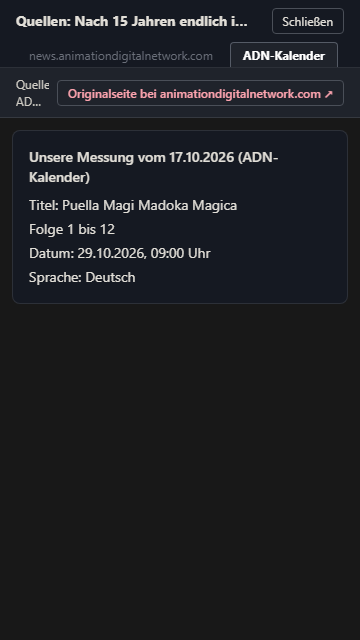
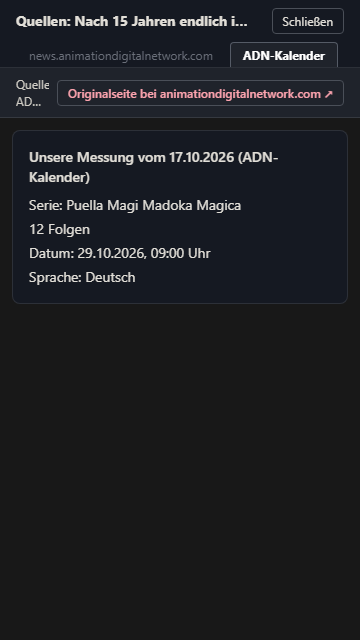
fix(belege): ADN-Messung nennt keine erfundene Startnummer (R4)
Der Termin trägt die Startnummer nur selten (1 von 116); „Folge 1 bis N“ war
eine Annahme. Jetzt „N Folgen“ (gezählt, nicht angenommen), Nummern nur mit
firstEpisodeNumber; „Titel:“ heißt „Serie:“, weil es unser Name der Serie ist,
nicht der des Kalenders. PR-Bilder neu aufgenommen.

Changed region(s): [[0.0611, 0.3125, 0.6722, 0.375]]

diff --git a/pipeline/check-beleg-api.ts b/pipeline/check-beleg-api.ts
@@ -56,7 +56,7 @@ const belegeVon = (r: Release) => baueNews([titel], [r], [], [], { zuerst: {} })
   const belege = belegeVon(release())
   const api = belege.find((b) => b.url === API)
   pruefe('der API-Beleg bleibt, mit Messung', Boolean(api?.messung?.zeilen.length), belege)
-  pruefe('Titel, Folge, Datum und Sprache stehen drin', JSON.stringify(api?.messung?.zeilen) === JSON.stringify(['Titel: Puella Magi Madoka Magica', 'Folge 1 bis 12', 'Datum: 29.10.2026, 09:00 Uhr', 'Sprache: Deutsch']), api?.messung)
+  pruefe('Serie, gezählte Folgen, Datum und Sprache stehen drin, keine erfundene Startnummer', JSON.stringify(api?.messung?.zeilen) === JSON.stringify(['Serie: Puella Magi Madoka Magica', '12 Folgen', 'Datum: 29.10.2026, 09:00 Uhr', 'Sprache: Deutsch']), api?.messung)
   pruefe('Abrufzeit: der Tag, an dem wir den Kalender sahen', api?.messung?.am === '2026-10-17', api)
   pruefe('Originalseite ist die Serienseite des Titels', api?.seite === SERIE && belegLink(api!) === SERIE, api)
   pruefe('kein Beleg des Termins hat eine API-Adresse als Link', belege.every((b) => !istApiAdresse(belegLink(b) ?? '')), belege)
@@ -73,9 +73,15 @@ const belegeVon = (r: Release) => baueNews([titel], [r], [], [], { zuerst: {} })
   const nurQuelle = belegeVon(release({ quellen: [] }))
   pruefe('eine API-Adresse nur in `sources` wird kein Beleg', !nurQuelle.some((b) => istApiAdresse(b.url)), nurQuelle)
   const einzel = belegeVon(release({ schedule: { firstEpisodeDate: '2026-10-29', time: '09:00', episodeCount: 1 } })).find((b) => b.url === API)
-  pruefe('eine Folge: „Folge 1“ ohne „bis“', einzel?.messung?.zeilen[1] === 'Folge 1', einzel?.messung)
+  pruefe('eine gezählte Folge: „1 Folge“', einzel?.messung?.zeilen[1] === '1 Folge', einzel?.messung)
   const geschaetzt = belegeVon(release({ schedule: { firstEpisodeDate: '2026-10-29', time: '09:00', episodeCount: 12, episodeCountAssumed: true, estimated: true } })).find((b) => b.url === API)
-  pruefe('angenommene Folgenzahl und geschätzte Uhrzeit stehen nicht drin', geschaetzt?.messung?.zeilen[1] === 'Folge 1' && geschaetzt.messung.zeilen[2] === 'Datum: 29.10.2026', geschaetzt?.messung)
+  pruefe('angenommene Folgenzahl und geschätzte Uhrzeit stehen nicht drin', geschaetzt?.messung?.zeilen.join('|') === 'Serie: Puella Magi Madoka Magica|Datum: 29.10.2026|Sprache: Deutsch', geschaetzt?.messung)
+  const mitten = belegeVon(release({ schedule: { firstEpisodeDate: '2026-10-29', time: '09:00', episodeCount: 12, firstEpisodeNumber: 13 } })).find((b) => b.url === API)
+  pruefe('Block mitten in der Serie mit belegter Startnummer: „Folge 13 bis 24“', mitten?.messung?.zeilen[1] === 'Folge 13 bis 24', mitten?.messung)
+  const mittenEine = belegeVon(release({ schedule: { firstEpisodeDate: '2026-10-29', episodeCount: 1, firstEpisodeNumber: 5 } })).find((b) => b.url === API)
+  pruefe('eine Folge mit belegter Nummer: „Folge 5“', mittenEine?.messung?.zeilen[1] === 'Folge 5', mittenEine?.messung)
+  const nurNummer = belegeVon(release({ schedule: { firstEpisodeDate: '2026-10-29', firstEpisodeNumber: 5 } })).find((b) => b.url === API)
+  pruefe('belegte Startnummer ohne Zahl: „Folge 5“', nurNummer?.messung?.zeilen[1] === 'Folge 5', nurNummer?.messung)
   const ohneZeit = belegeVon(release({ schedule: { firstEpisodeDate: '2026-10-29', episodeCount: 12 } })).find((b) => b.url === API)
   pruefe('ohne Uhrzeit steht nur das Datum da', ohneZeit?.messung?.zeilen[2] === 'Datum: 29.10.2026', ohneZeit?.messung)
   const adnFremdeApi =belegeVon(release({ sources: ['https://api.example.com/x'], quellen: [{ url: 'https://api.example.com/x', name: 'x', gesehenAm: '2026-10-17', stand: 'aktuell' }] }))

diff --git a/pipeline/lib/beleg-api.ts b/pipeline/lib/beleg-api.ts
@@ -16,15 +16,24 @@ export function adnSerienseite(release: Release): string | undefined {
   return url.replace(/(\/video\/[^/]+)\/\d+-[^/]*$/, '$1')
 }
 
-/** Was der Kalender zum Termin sagte, Zeile für Zeile — nur Gemessenes (Titel, Folge, Datum, Sprache). */
+/**
+ * Die Folgenzeile: Nummern nur, wenn der Termin sie trägt (`firstEpisodeNumber`; ADN-Blöcke beginnen nicht immer bei Folge 1),
+ * sonst die gezählten Folgen; eine angenommene Zahl steht nicht da.
+ */
+function folgenZeile(s: Release['schedule'] | undefined): string[] {
+  const anzahl = s?.episodeCountAssumed ? undefined : s?.episodeCount
+  const von = s?.firstEpisodeNumber
+  if (von !== undefined) return [anzahl && anzahl > 1 ? `Folge ${von} bis ${von + anzahl - 1}` : `Folge ${von}`]
+  if (!anzahl) return []
+  return [anzahl === 1 ? '1 Folge' : `${anzahl} Folgen`]
+}
+
+/** Was der Kalender zum Termin sagte, Zeile für Zeile — nur, was der Termin trägt: Serie, Folgen, Datum, Sprache (der Kalender führt nur deutsche Folgen). */
 export function kalenderZeilen(release: Release): string[] {
   const s = release.schedule
-  const von = s?.firstEpisodeNumber ?? 1
-  const anzahl = s?.episodeCountAssumed ? undefined : s?.episodeCount
-  const folge = anzahl && anzahl > 1 ? `Folge ${von} bis ${von + anzahl - 1}` : `Folge ${von}`
   return [
-    `Titel: ${release.name}`,
-    folge,
+    `Serie: ${release.name}`,
+    ...folgenZeile(s),
     ...(s?.firstEpisodeDate ? [`Datum: ${formatDate(s.firstEpisodeDate)}${s.time && !s.estimated ? `, ${s.time} Uhr` : ''}`] : []),
     'Sprache: Deutsch',
   ]

diff --git a/docs/wissen/quellen.md b/docs/wissen/quellen.md
@@ -4041,4 +4041,4 @@ Auftrag Daniel (16.10.2026): Nennt JustWatch an der Seite eines unserer Wege deu
 
 ## Belege auf API-Adressen: Messung statt Link (19.10.2026)
 
-Madoka Magica: Der Reiter „ADN API“ trug nur „Quelle: ADN API.“, „Originalseite“ führte auf `gw.api.animationdigitalnetwork.com/video/calendar` (400 Bad Request ohne `date`). Ursache: `ADN_CALENDAR_URL` steht in `sources` und `quellen` jedes ADN-Termins (`07-adn.ts`), `belegeVonRelease` machte daraus einen Beleg ohne Inhalt, `beleg-dialog.tsx` verlinkte `beleg.url`. Bestand 19.10.2026: 116 `releases.quellen`, 114 `sources`, 6 News-Belege, 141 Zeilen in `quellen-historie.json`; andere API-Hosts gibt es nicht. Jetzt: `pipeline/lib/beleg-api.ts` baut aus dem Termin eine Messung (Titel, Folge, Datum, Sprache Deutsch; `am` = Abruftag) und als `seite` die Serienseite; `shared/quelle.ts` `istApiAdresse`/`istLink`/`belegLink` machen eine API-Adresse nie zum Klickziel (Beleg-Fenster, Quellenübersicht, Panel, Mail). Wächter: `apiBelegFehler` in `belegFehler` (bricht den Bau), `check-beleg-api.ts` in `check:logic`. Offen: 91 News-Belege (19.10.2026) tragen nur „Quelle: X.“ (Händler-, TV-, Katalogseiten; Link funktioniert, kein Inhalt).
+Madoka Magica: Der Reiter „ADN API“ trug nur „Quelle: ADN API.“, „Originalseite“ führte auf `gw.api.animationdigitalnetwork.com/video/calendar` (400 Bad Request ohne `date`). Ursache: `ADN_CALENDAR_URL` steht in `sources` und `quellen` jedes ADN-Termins (`07-adn.ts`), `belegeVonRelease` machte daraus einen Beleg ohne Inhalt, `beleg-dialog.tsx` verlinkte `beleg.url`. Bestand 19.10.2026: 116 `releases.quellen`, 114 `sources`, 6 News-Belege, 141 Zeilen in `quellen-historie.json`; andere API-Hosts gibt es nicht. Jetzt: `pipeline/lib/beleg-api.ts` baut aus dem Termin eine Messung (Serie, gezählte Folgen, Datum, Sprache Deutsch; `am` = Abruftag; Folgennummern nur mit `firstEpisodeNumber`, 1 von 116 Terminen am 19.10.2026) und als `seite` die Serienseite; `shared/quelle.ts` `istApiAdresse`/`istLink`/`belegLink` machen eine API-Adresse nie zum Klickziel (Beleg-Fenster, Quellenübersicht, Panel, Mail). Wächter: `apiBelegFehler` in `belegFehler` (bricht den Bau), `check-beleg-api.ts` in `check:logic`. Offen: 91 News-Belege (19.10.2026) tragen nur „Quelle: X.“ (Händler-, TV-, Katalogseiten; Link funktioniert, kein Inhalt).
